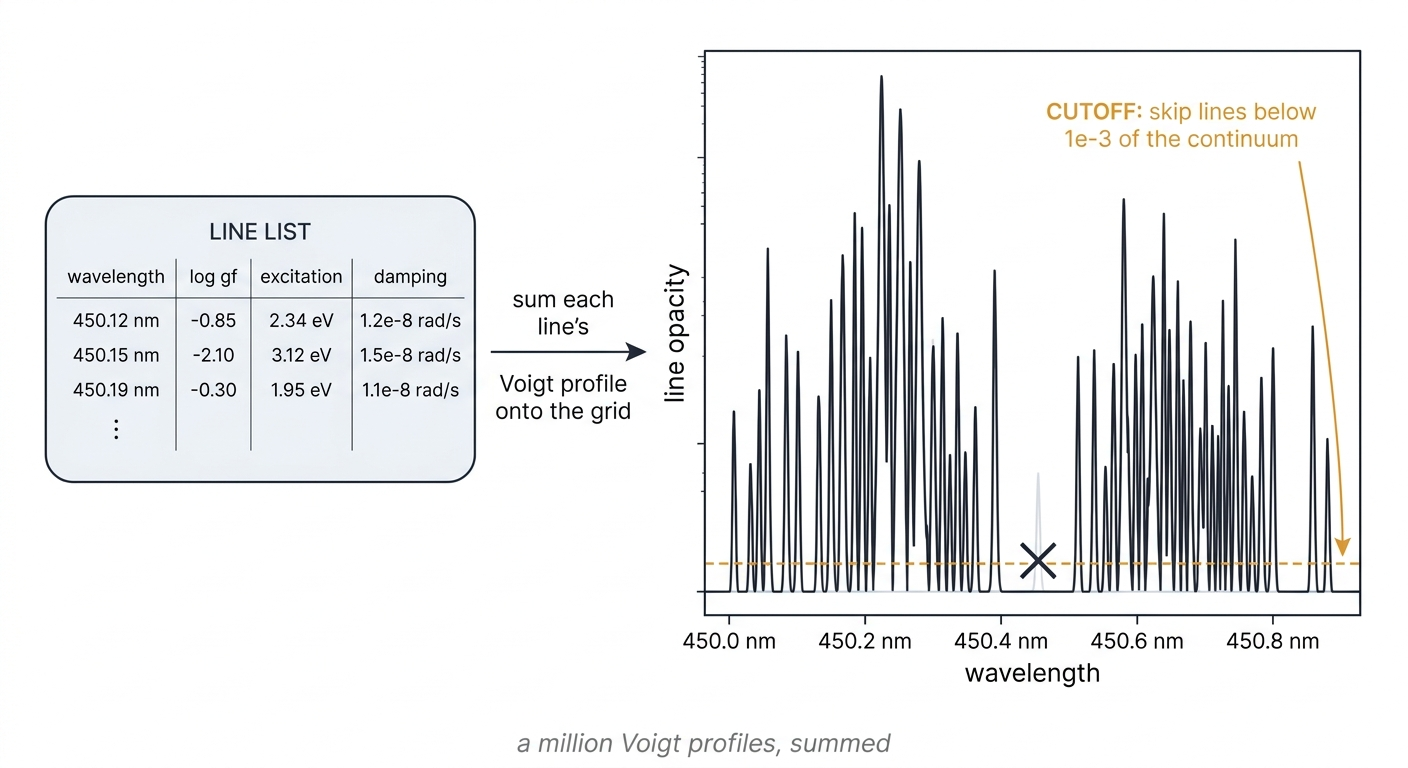
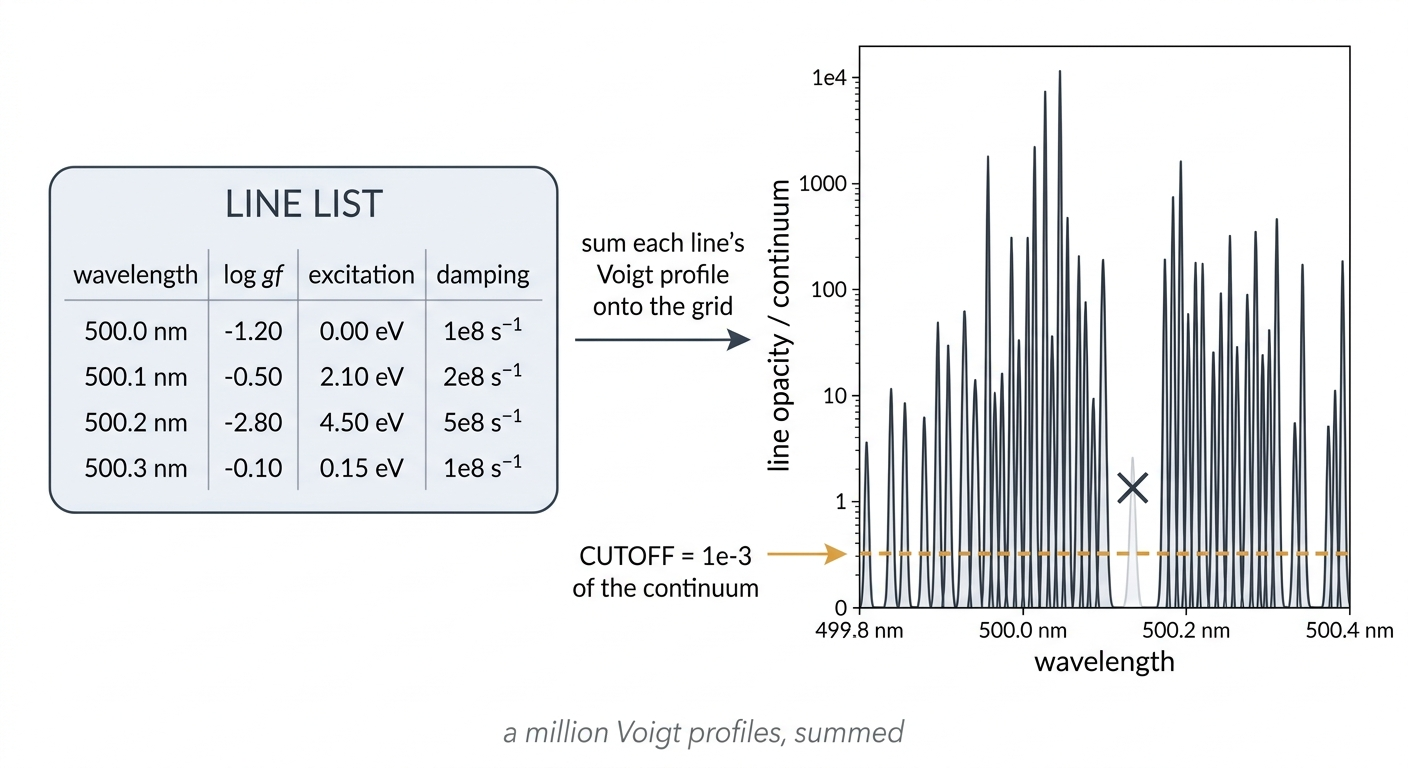
Polish: L8 deep-core gap attributed to METHOD/grid not scattering (consistent w/ L7 + the alpha-discussion); regenerate s5_linelist (relative y-axis, cutoff) + s7_josh (B_nu as source, not opacity)
L8 benchmark 2.5e-12 / B_nu 2.62e-15 preserved.

Changed region(s): [[0.0312, 0.0312, 1.0, 0.9062], [0.3438, 0.9375, 0.6562, 1.0], [0.375, 0.2188, 0.4062, 0.25]]

diff --git a/content/Lecture8.html b/content/Lecture8.html
@@ -3,13 +3,14 @@
 <li>Take the <strong>moments</strong> of the transfer equation and close them with the <strong>Eddington approximation</strong>, turning radiative transfer into a pair of moment equations for the mean intensity <span class="katex"><span class="katex-mathml"><math xmlns="http://www.w3.org/1998/Math/MathML"><semantics><mrow><mi>J</mi></mrow><annotation encoding="application/x-tex">J</annotation></semantics></math></span><span class="katex-html" aria-hidden="true"><span class="base"><span class="strut" style="height:0.6833em;"></span><span class="mord mathnormal" style="margin-right:0.09618em;">J</span></span></span></span> and the flux <span class="katex"><span class="katex-mathml"><math xmlns="http://www.w3.org/1998/Math/MathML"><semantics><mrow><mi>H</mi></mrow><annotation encoding="application/x-tex">H</annotation></semantics></math></span><span class="katex-html" aria-hidden="true"><span class="base"><span class="strut" style="height:0.6833em;"></span><span class="mord mathnormal" style="margin-right:0.08125em;">H</span></span></span></span>.</li>
 <li>Read the production code&#39;s three precomputed tables — a fixed <strong>optical-depth grid</strong>, a discrete <strong>lambda-like operator</strong> <code>COEFJ</code>, and surface-flux weights <code>CH</code> — and say what each one does.</li>
 <li>Build the optical-depth scale with a <strong>parabolic integrator</strong>, map the source onto the fixed grid with <strong>parabolic interpolation</strong>, and solve the <strong>scattering source function</strong> by iteration.</li>
-<li>Assemble the emergent flux and reproduce the reference solar spectrum to <strong>machine precision</strong> — meaning agreement with the production JOSH code path and its tabulated operators and arithmetic, not an assertion that the moment approximation is exact radiative transfer — closing the gap the prescribed-thermal-source formal solution of Lecture 7 left against the production engine.</li>
+<li>Assemble the emergent flux and reproduce the reference solar spectrum to <strong>machine precision</strong> — meaning agreement with the production JOSH code path and its tabulated operators and arithmetic, not an assertion that the moment approximation is exact radiative transfer — closing the deep-core gap the formal solution of Lecture 7 left against the production engine, which in this window is a <strong>method</strong> difference (the fixed grid, parabolic quadrature, tabulated operators, and single-precision arithmetic), not missing scattering.</li>
 </ul>
 </div><div class="prose"><p><em>Written in collaboration with <strong>Claude Opus 4.8</strong>, under the author&#39;s supervision. Schematics generated with <strong>Gemini 3 Pro</strong> (Nano Banana).</em></p>
 <p><em>Every result in this book is checked against reference values computed with <a href="https://arxiv.org/abs/2603.11693"><strong>pykurucz</strong></a> — a pure-Python implementation of Kurucz&#39;s ATLAS12 and SYNTHE — shipped beside the lectures as small data files, so the notebooks need only NumPy to run.</em></p>
 <hr>
 <h2>Introduction</h2>
-<p>Lecture 7 solved radiative transfer with the <strong>formal solution</strong> under one approximation. The formal solution is exact for any specified source; the approximation was the <em>source</em> it was handed — the prescribed thermal value <span class="katex"><span class="katex-mathml"><math xmlns="http://www.w3.org/1998/Math/MathML"><semantics><mrow><msub><mi>S</mi><mi>ν</mi></msub><mo>=</mo><msub><mi>B</mi><mi>ν</mi></msub></mrow><annotation encoding="application/x-tex">S_\nu = B_\nu</annotation></semantics></math></span><span class="katex-html" aria-hidden="true"><span class="base"><span class="strut" style="height:0.8333em;vertical-align:-0.15em;"></span><span class="mord"><span class="mord mathnormal" style="margin-right:0.05764em;">S</span><span class="msupsub"><span class="vlist-t vlist-t2"><span class="vlist-r"><span class="vlist" style="height:0.1514em;"><span style="top:-2.55em;margin-left:-0.0576em;margin-right:0.05em;"><span class="pstrut" style="height:2.7em;"></span><span class="sizing reset-size6 size3 mtight"><span class="mord mathnormal mtight" style="margin-right:0.06366em;">ν</span></span></span></span><span class="vlist-s"></span></span><span class="vlist-r"><span class="vlist" style="height:0.15em;"><span></span></span></span></span></span></span><span class="mspace" style="margin-right:0.2778em;"></span><span class="mrel">=</span><span class="mspace" style="margin-right:0.2778em;"></span></span><span class="base"><span class="strut" style="height:0.8333em;vertical-align:-0.15em;"></span><span class="mord"><span class="mord mathnormal" style="margin-right:0.05017em;">B</span><span class="msupsub"><span class="vlist-t vlist-t2"><span class="vlist-r"><span class="vlist" style="height:0.1514em;"><span style="top:-2.55em;margin-left:-0.0502em;margin-right:0.05em;"><span class="pstrut" style="height:2.7em;"></span><span class="sizing reset-size6 size3 mtight"><span class="mord mathnormal mtight" style="margin-right:0.06366em;">ν</span></span></span></span><span class="vlist-s"></span></span><span class="vlist-r"><span class="vlist" style="height:0.15em;"><span></span></span></span></span></span></span></span></span></span>, with no scattering coupling. That choice is exact wherever true absorption dominates, and it reproduced the solar spectrum to a part in a thousand, loosening to about ten percent only in the deepest cores. There, <strong>scattering</strong> is no longer negligible: the source is pulled away from <span class="katex"><span class="katex-mathml"><math xmlns="http://www.w3.org/1998/Math/MathML"><semantics><mrow><msub><mi>B</mi><mi>ν</mi></msub></mrow><annotation encoding="application/x-tex">B_\nu</annotation></semantics></math></span><span class="katex-html" aria-hidden="true"><span class="base"><span class="strut" style="height:0.8333em;vertical-align:-0.15em;"></span><span class="mord"><span class="mord mathnormal" style="margin-right:0.05017em;">B</span><span class="msupsub"><span class="vlist-t vlist-t2"><span class="vlist-r"><span class="vlist" style="height:0.1514em;"><span style="top:-2.55em;margin-left:-0.0502em;margin-right:0.05em;"><span class="pstrut" style="height:2.7em;"></span><span class="sizing reset-size6 size3 mtight"><span class="mord mathnormal mtight" style="margin-right:0.06366em;">ν</span></span></span></span><span class="vlist-s"></span></span><span class="vlist-r"><span class="vlist" style="height:0.15em;"><span></span></span></span></span></span></span></span></span></span> toward the scattered radiation field, and a prescribed thermal source cannot follow it. Lecture 7 already wrote down the form this takes — the source becomes a mix of the thermal Planck term and the scattered mean intensity:</p>
+<p>Lecture 7 solved radiative transfer with the <strong>formal solution</strong>, which is exact for any specified source. It reproduced the solar spectrum to a part in a thousand, loosening to about ten percent only in the deepest cores — and Lecture 7 pinned down what that residual is. It is not missing scattering: in this LTE solar window the deep line cores are nearly <strong>pure absorption</strong>, the local scattering fraction falling to <span class="katex"><span class="katex-mathml"><math xmlns="http://www.w3.org/1998/Math/MathML"><semantics><mrow><mo>∼</mo><mn>1</mn><msup><mn>0</mn><mrow><mo>−</mo><mn>4</mn></mrow></msup></mrow><annotation encoding="application/x-tex">\sim10^{-4}</annotation></semantics></math></span><span class="katex-html" aria-hidden="true"><span class="base"><span class="strut" style="height:0.3669em;"></span><span class="mrel">∼</span><span class="mspace" style="margin-right:0.2778em;"></span></span><span class="base"><span class="strut" style="height:0.8141em;"></span><span class="mord">1</span><span class="mord"><span class="mord">0</span><span class="msupsub"><span class="vlist-t"><span class="vlist-r"><span class="vlist" style="height:0.8141em;"><span style="top:-3.063em;margin-right:0.05em;"><span class="pstrut" style="height:2.7em;"></span><span class="sizing reset-size6 size3 mtight"><span class="mord mtight"><span class="mord mtight">−</span><span class="mord mtight">4</span></span></span></span></span></span></span></span></span></span></span></span> there, so the prescribed thermal source <span class="katex"><span class="katex-mathml"><math xmlns="http://www.w3.org/1998/Math/MathML"><semantics><mrow><msub><mi>S</mi><mi>ν</mi></msub><mo>=</mo><msub><mi>B</mi><mi>ν</mi></msub></mrow><annotation encoding="application/x-tex">S_\nu = B_\nu</annotation></semantics></math></span><span class="katex-html" aria-hidden="true"><span class="base"><span class="strut" style="height:0.8333em;vertical-align:-0.15em;"></span><span class="mord"><span class="mord mathnormal" style="margin-right:0.05764em;">S</span><span class="msupsub"><span class="vlist-t vlist-t2"><span class="vlist-r"><span class="vlist" style="height:0.1514em;"><span style="top:-2.55em;margin-left:-0.0576em;margin-right:0.05em;"><span class="pstrut" style="height:2.7em;"></span><span class="sizing reset-size6 size3 mtight"><span class="mord mathnormal mtight" style="margin-right:0.06366em;">ν</span></span></span></span><span class="vlist-s"></span></span><span class="vlist-r"><span class="vlist" style="height:0.15em;"><span></span></span></span></span></span></span><span class="mspace" style="margin-right:0.2778em;"></span><span class="mrel">=</span><span class="mspace" style="margin-right:0.2778em;"></span></span><span class="base"><span class="strut" style="height:0.8333em;vertical-align:-0.15em;"></span><span class="mord"><span class="mord mathnormal" style="margin-right:0.05017em;">B</span><span class="msupsub"><span class="vlist-t vlist-t2"><span class="vlist-r"><span class="vlist" style="height:0.1514em;"><span style="top:-2.55em;margin-left:-0.0502em;margin-right:0.05em;"><span class="pstrut" style="height:2.7em;"></span><span class="sizing reset-size6 size3 mtight"><span class="mord mathnormal mtight" style="margin-right:0.06366em;">ν</span></span></span></span><span class="vlist-s"></span></span><span class="vlist-r"><span class="vlist" style="height:0.15em;"><span></span></span></span></span></span></span></span></span></span> is an excellent approximation in the cores. The gap is instead a <strong>method</strong> difference. Lecture 7&#39;s formal solution integrates the steep near-surface source by the trapezoidal rule on the atmosphere&#39;s <em>native</em> depth grid, while the production engine maps the source onto a <em>fixed</em> optical-depth grid, integrates it with a parabolic moment scheme through tabulated operators, and works in single precision. Where the source is nearly linear in <span class="katex"><span class="katex-mathml"><math xmlns="http://www.w3.org/1998/Math/MathML"><semantics><mrow><mi>τ</mi></mrow><annotation encoding="application/x-tex">\tau</annotation></semantics></math></span><span class="katex-html" aria-hidden="true"><span class="base"><span class="strut" style="height:0.4306em;"></span><span class="mord mathnormal" style="margin-right:0.1132em;">τ</span></span></span></span> — almost everywhere — the two paths agree to a part in a thousand; only in the steep strong-line cores does the grid, the quadrature, and the arithmetic account for the ten-percent gap. This lecture rebuilds that production path so the gap closes.</p>
+<p>Scattering still belongs in a production solver, but it earns its place elsewhere in this window. Where it matters is the <strong>continuum surface</strong>: in the thin, cool top layers the continuum absorption nearly vanishes while Rayleigh and Thomson scattering do not, so there the scattering fraction climbs to <span class="katex"><span class="katex-mathml"><math xmlns="http://www.w3.org/1998/Math/MathML"><semantics><mrow><msub><mi>α</mi><mi>ν</mi></msub><mo>→</mo><mn>1</mn></mrow><annotation encoding="application/x-tex">\alpha_\nu \to 1</annotation></semantics></math></span><span class="katex-html" aria-hidden="true"><span class="base"><span class="strut" style="height:0.5806em;vertical-align:-0.15em;"></span><span class="mord"><span class="mord mathnormal" style="margin-right:0.0037em;">α</span><span class="msupsub"><span class="vlist-t vlist-t2"><span class="vlist-r"><span class="vlist" style="height:0.1514em;"><span style="top:-2.55em;margin-left:-0.0037em;margin-right:0.05em;"><span class="pstrut" style="height:2.7em;"></span><span class="sizing reset-size6 size3 mtight"><span class="mord mathnormal mtight" style="margin-right:0.06366em;">ν</span></span></span></span><span class="vlist-s"></span></span><span class="vlist-r"><span class="vlist" style="height:0.15em;"><span></span></span></span></span></span></span><span class="mspace" style="margin-right:0.2778em;"></span><span class="mrel">→</span><span class="mspace" style="margin-right:0.2778em;"></span></span><span class="base"><span class="strut" style="height:0.6444em;"></span><span class="mord">1</span></span></span></span> and the source is genuinely pulled away from <span class="katex"><span class="katex-mathml"><math xmlns="http://www.w3.org/1998/Math/MathML"><semantics><mrow><msub><mi>B</mi><mi>ν</mi></msub></mrow><annotation encoding="application/x-tex">B_\nu</annotation></semantics></math></span><span class="katex-html" aria-hidden="true"><span class="base"><span class="strut" style="height:0.8333em;vertical-align:-0.15em;"></span><span class="mord"><span class="mord mathnormal" style="margin-right:0.05017em;">B</span><span class="msupsub"><span class="vlist-t vlist-t2"><span class="vlist-r"><span class="vlist" style="height:0.1514em;"><span style="top:-2.55em;margin-left:-0.0502em;margin-right:0.05em;"><span class="pstrut" style="height:2.7em;"></span><span class="sizing reset-size6 size3 mtight"><span class="mord mathnormal mtight" style="margin-right:0.06366em;">ν</span></span></span></span><span class="vlist-s"></span></span><span class="vlist-r"><span class="vlist" style="height:0.15em;"><span></span></span></span></span></span></span></span></span></span> toward the scattered radiation field — exactly the regime a prescribed thermal source cannot follow. The general source function that covers both regimes is a mix of the thermal Planck term and the scattered mean intensity:</p>
 <span class="katex-display"><span class="katex"><span class="katex-mathml"><math xmlns="http://www.w3.org/1998/Math/MathML" display="block"><semantics><mrow><msub><mi>S</mi><mi>ν</mi></msub><mo>=</mo><mfrac><mrow><msubsup><mi>κ</mi><mi>ν</mi><mrow><mi mathvariant="normal">a</mi><mi mathvariant="normal">b</mi><mi mathvariant="normal">s</mi></mrow></msubsup><mtext> </mtext><msub><mi>B</mi><mi>ν</mi></msub><mo>+</mo><msubsup><mi>κ</mi><mi>ν</mi><mrow><mi mathvariant="normal">s</mi><mi mathvariant="normal">c</mi><mi mathvariant="normal">a</mi><mi mathvariant="normal">t</mi></mrow></msubsup><mtext> </mtext><msub><mi>J</mi><mi>ν</mi></msub></mrow><mrow><msubsup><mi>κ</mi><mi>ν</mi><mrow><mi mathvariant="normal">a</mi><mi mathvariant="normal">b</mi><mi mathvariant="normal">s</mi></mrow></msubsup><mo>+</mo><msubsup><mi>κ</mi><mi>ν</mi><mrow><mi mathvariant="normal">s</mi><mi mathvariant="normal">c</mi><mi mathvariant="normal">a</mi><mi mathvariant="normal">t</mi></mrow></msubsup></mrow></mfrac><mo>=</mo><mo stretchy="false">(</mo><mn>1</mn><mo>−</mo><msub><mi>α</mi><mi>ν</mi></msub><mo stretchy="false">)</mo><mtext> </mtext><msub><mi>B</mi><mi>ν</mi></msub><mo>+</mo><msub><mi>α</mi><mi>ν</mi></msub><mtext> </mtext><msub><mi>J</mi><mi>ν</mi></msub><mo separator="true">,</mo><mspace width="2em"/><msub><mi>α</mi><mi>ν</mi></msub><mo>≡</mo><mfrac><msubsup><mi>κ</mi><mi>ν</mi><mrow><mi mathvariant="normal">s</mi><mi mathvariant="normal">c</mi><mi mathvariant="normal">a</mi><mi mathvariant="normal">t</mi></mrow></msubsup><mrow><msubsup><mi>κ</mi><mi>ν</mi><mrow><mi mathvariant="normal">a</mi><mi mathvariant="normal">b</mi><mi mathvariant="normal">s</mi></mrow></msubsup><mo>+</mo><msubsup><mi>κ</mi><mi>ν</mi><mrow><mi mathvariant="normal">s</mi><mi mathvariant="normal">c</mi><mi mathvariant="normal">a</mi><mi mathvariant="normal">t</mi></mrow></msubsup></mrow></mfrac><mi mathvariant="normal">.</mi></mrow><annotation encoding="application/x-tex">S_\nu = \frac{\kappa^{\rm abs}_\nu\,B_\nu + \kappa^{\rm scat}_\nu\,J_\nu}{\kappa^{\rm abs}_\nu + \kappa^{\rm scat}_\nu}
         = (1-\alpha_\nu)\,B_\nu + \alpha_\nu\,J_\nu,
 \qquad
@@ -808,10 +809,10 @@ fig.tight_layout(); plt.show()</code></pre>
 <li>The production solver ships <span class="katex"><span class="katex-mathml"><math xmlns="http://www.w3.org/1998/Math/MathML"><semantics><mrow><mi mathvariant="normal">Λ</mi></mrow><annotation encoding="application/x-tex">\Lambda</annotation></semantics></math></span><span class="katex-html" aria-hidden="true"><span class="base"><span class="strut" style="height:0.6833em;"></span><span class="mord">Λ</span></span></span></span> as a matrix <code>COEFJ</code> on a <strong>fixed 51-point optical-depth grid</strong>, with flux weights <code>CH</code> for the surface flux <span class="katex"><span class="katex-mathml"><math xmlns="http://www.w3.org/1998/Math/MathML"><semantics><mrow><mi>H</mi><mo stretchy="false">(</mo><mn>0</mn><mo stretchy="false">)</mo><mo>=</mo><msub><mo>∑</mo><mi>k</mi></msub><msub><mtext mathvariant="monospace">CH</mtext><mi>k</mi></msub><msub><mi>S</mi><mi>k</mi></msub></mrow><annotation encoding="application/x-tex">H(0) = \sum_k \texttt{CH}_k S_k</annotation></semantics></math></span><span class="katex-html" aria-hidden="true"><span class="base"><span class="strut" style="height:1em;vertical-align:-0.25em;"></span><span class="mord mathnormal" style="margin-right:0.08125em;">H</span><span class="mopen">(</span><span class="mord">0</span><span class="mclose">)</span><span class="mspace" style="margin-right:0.2778em;"></span><span class="mrel">=</span><span class="mspace" style="margin-right:0.2778em;"></span></span><span class="base"><span class="strut" style="height:1.0497em;vertical-align:-0.2997em;"></span><span class="mop"><span class="mop op-symbol small-op" style="position:relative;top:0em;">∑</span><span class="msupsub"><span class="vlist-t vlist-t2"><span class="vlist-r"><span class="vlist" style="height:0.1864em;"><span style="top:-2.4003em;margin-left:0em;margin-right:0.05em;"><span class="pstrut" style="height:2.7em;"></span><span class="sizing reset-size6 size3 mtight"><span class="mord mathnormal mtight" style="margin-right:0.03148em;">k</span></span></span></span><span class="vlist-s"></span></span><span class="vlist-r"><span class="vlist" style="height:0.2997em;"><span></span></span></span></span></span></span><span class="mspace" style="margin-right:0.1667em;"></span><span class="mord"><span class="mord text"><span class="mord texttt">CH</span></span><span class="msupsub"><span class="vlist-t vlist-t2"><span class="vlist-r"><span class="vlist" style="height:0.3361em;"><span style="top:-2.55em;margin-right:0.05em;"><span class="pstrut" style="height:2.7em;"></span><span class="sizing reset-size6 size3 mtight"><span class="mord mathnormal mtight" style="margin-right:0.03148em;">k</span></span></span></span><span class="vlist-s"></span></span><span class="vlist-r"><span class="vlist" style="height:0.15em;"><span></span></span></span></span></span></span><span class="mord"><span class="mord mathnormal" style="margin-right:0.05764em;">S</span><span class="msupsub"><span class="vlist-t vlist-t2"><span class="vlist-r"><span class="vlist" style="height:0.3361em;"><span style="top:-2.55em;margin-left:-0.0576em;margin-right:0.05em;"><span class="pstrut" style="height:2.7em;"></span><span class="sizing reset-size6 size3 mtight"><span class="mord mathnormal mtight" style="margin-right:0.03148em;">k</span></span></span></span><span class="vlist-s"></span></span><span class="vlist-r"><span class="vlist" style="height:0.15em;"><span></span></span></span></span></span></span></span></span></span>.</li>
 <li>The scattering source obeys <span class="katex"><span class="katex-mathml"><math xmlns="http://www.w3.org/1998/Math/MathML"><semantics><mrow><mi>S</mi><mo>=</mo><mo stretchy="false">(</mo><mn>1</mn><mo>−</mo><mi>α</mi><mo stretchy="false">)</mo><mover accent="true"><mi>S</mi><mo>ˉ</mo></mover><mo>+</mo><mi>α</mi><mtext> </mtext><mo stretchy="false">(</mo><mtext mathvariant="monospace">COEFJ</mtext><mo>⋅</mo><mi>S</mi><mo stretchy="false">)</mo></mrow><annotation encoding="application/x-tex">S = (1-\alpha)\bar S + \alpha\,(\texttt{COEFJ}\cdot S)</annotation></semantics></math></span><span class="katex-html" aria-hidden="true"><span class="base"><span class="strut" style="height:0.6833em;"></span><span class="mord mathnormal" style="margin-right:0.05764em;">S</span><span class="mspace" style="margin-right:0.2778em;"></span><span class="mrel">=</span><span class="mspace" style="margin-right:0.2778em;"></span></span><span class="base"><span class="strut" style="height:1em;vertical-align:-0.25em;"></span><span class="mopen">(</span><span class="mord">1</span><span class="mspace" style="margin-right:0.2222em;"></span><span class="mbin">−</span><span class="mspace" style="margin-right:0.2222em;"></span></span><span class="base"><span class="strut" style="height:1.0701em;vertical-align:-0.25em;"></span><span class="mord mathnormal" style="margin-right:0.0037em;">α</span><span class="mclose">)</span><span class="mord accent"><span class="vlist-t"><span class="vlist-r"><span class="vlist" style="height:0.8201em;"><span style="top:-3em;"><span class="pstrut" style="height:3em;"></span><span class="mord mathnormal" style="margin-right:0.05764em;">S</span></span><span style="top:-3.2523em;"><span class="pstrut" style="height:3em;"></span><span class="accent-body" style="left:-0.1667em;"><span class="mord">ˉ</span></span></span></span></span></span></span><span class="mspace" style="margin-right:0.2222em;"></span><span class="mbin">+</span><span class="mspace" style="margin-right:0.2222em;"></span></span><span class="base"><span class="strut" style="height:1em;vertical-align:-0.25em;"></span><span class="mord mathnormal" style="margin-right:0.0037em;">α</span><span class="mspace" style="margin-right:0.1667em;"></span><span class="mopen">(</span><span class="mord text"><span class="mord texttt">COEFJ</span></span><span class="mspace" style="margin-right:0.2222em;"></span><span class="mbin">⋅</span><span class="mspace" style="margin-right:0.2222em;"></span></span><span class="base"><span class="strut" style="height:1em;vertical-align:-0.25em;"></span><span class="mord mathnormal" style="margin-right:0.05764em;">S</span><span class="mclose">)</span></span></span></span>, solved by a backward Gauss–Seidel sweep in <strong>single precision</strong> to a <span class="katex"><span class="katex-mathml"><math xmlns="http://www.w3.org/1998/Math/MathML"><semantics><mrow><mn>1</mn><msup><mn>0</mn><mrow><mo>−</mo><mn>5</mn></mrow></msup></mrow><annotation encoding="application/x-tex">10^{-5}</annotation></semantics></math></span><span class="katex-html" aria-hidden="true"><span class="base"><span class="strut" style="height:0.8141em;"></span><span class="mord">1</span><span class="mord"><span class="mord">0</span><span class="msupsub"><span class="vlist-t"><span class="vlist-r"><span class="vlist" style="height:0.8141em;"><span style="top:-3.063em;margin-right:0.05em;"><span class="pstrut" style="height:2.7em;"></span><span class="sizing reset-size6 size3 mtight"><span class="mord mtight"><span class="mord mtight">−</span><span class="mord mtight">5</span></span></span></span></span></span></span></span></span></span></span></span> tolerance.</li>
 <li>The pipeline per wavelength is: <strong>optical depth</strong> (<code>parcoe</code>/<code>integ</code>) → <strong>map onto the grid</strong> (<code>map1</code>) → <strong>iterate the source</strong> → <strong>weighted flux</strong>.</li>
-<li>The rebuilt solver reproduces the reference spectrum to a <strong>median of <span class="katex"><span class="katex-mathml"><math xmlns="http://www.w3.org/1998/Math/MathML"><semantics><mrow><mo>∼</mo><mn>1</mn><msup><mn>0</mn><mrow><mo>−</mo><mn>12</mn></mrow></msup></mrow><annotation encoding="application/x-tex">\sim10^{-12}</annotation></semantics></math></span><span class="katex-html" aria-hidden="true"><span class="base"><span class="strut" style="height:0.3669em;"></span><span class="mrel">∼</span><span class="mspace" style="margin-right:0.2778em;"></span></span><span class="base"><span class="strut" style="height:0.8141em;"></span><span class="mord">1</span><span class="mord"><span class="mord">0</span><span class="msupsub"><span class="vlist-t"><span class="vlist-r"><span class="vlist" style="height:0.8141em;"><span style="top:-3.063em;margin-right:0.05em;"><span class="pstrut" style="height:2.7em;"></span><span class="sizing reset-size6 size3 mtight"><span class="mord mtight"><span class="mord mtight">−</span><span class="mord mtight">12</span></span></span></span></span></span></span></span></span></span></span></span></strong>, closing the gap the Lecture 7 calculation left against the production engine.</li>
+<li>The rebuilt solver reproduces the reference spectrum to a <strong>median of <span class="katex"><span class="katex-mathml"><math xmlns="http://www.w3.org/1998/Math/MathML"><semantics><mrow><mo>∼</mo><mn>1</mn><msup><mn>0</mn><mrow><mo>−</mo><mn>12</mn></mrow></msup></mrow><annotation encoding="application/x-tex">\sim10^{-12}</annotation></semantics></math></span><span class="katex-html" aria-hidden="true"><span class="base"><span class="strut" style="height:0.3669em;"></span><span class="mrel">∼</span><span class="mspace" style="margin-right:0.2778em;"></span></span><span class="base"><span class="strut" style="height:0.8141em;"></span><span class="mord">1</span><span class="mord"><span class="mord">0</span><span class="msupsub"><span class="vlist-t"><span class="vlist-r"><span class="vlist" style="height:0.8141em;"><span style="top:-3.063em;margin-right:0.05em;"><span class="pstrut" style="height:2.7em;"></span><span class="sizing reset-size6 size3 mtight"><span class="mord mtight"><span class="mord mtight">−</span><span class="mord mtight">12</span></span></span></span></span></span></span></span></span></span></span></span></strong>, closing the deep-core gap the Lecture 7 calculation left — a <strong>grid/quadrature/operator/arithmetic</strong> difference, not missing scattering; in this window scattering matters only at the continuum surface, where <span class="katex"><span class="katex-mathml"><math xmlns="http://www.w3.org/1998/Math/MathML"><semantics><mrow><mi>α</mi><mo>→</mo><mn>1</mn></mrow><annotation encoding="application/x-tex">\alpha\to 1</annotation></semantics></math></span><span class="katex-html" aria-hidden="true"><span class="base"><span class="strut" style="height:0.4306em;"></span><span class="mord mathnormal" style="margin-right:0.0037em;">α</span><span class="mspace" style="margin-right:0.2778em;"></span><span class="mrel">→</span><span class="mspace" style="margin-right:0.2778em;"></span></span><span class="base"><span class="strut" style="height:0.6444em;"></span><span class="mord">1</span></span></span></span>.</li>
 </ul>
 <h2>Practice exercises</h2>
-<p><strong>1. The closure in action.</strong> Set <span class="katex"><span class="katex-mathml"><math xmlns="http://www.w3.org/1998/Math/MathML"><semantics><mrow><mi>α</mi><mo>=</mo><mn>0</mn></mrow><annotation encoding="application/x-tex">\alpha = 0</annotation></semantics></math></span><span class="katex-html" aria-hidden="true"><span class="base"><span class="strut" style="height:0.4306em;"></span><span class="mord mathnormal" style="margin-right:0.0037em;">α</span><span class="mspace" style="margin-right:0.2778em;"></span><span class="mrel">=</span><span class="mspace" style="margin-right:0.2778em;"></span></span><span class="base"><span class="strut" style="height:0.6444em;"></span><span class="mord">0</span></span></span></span> everywhere in <code>solve_josh</code> (so the source never leaves <span class="katex"><span class="katex-mathml"><math xmlns="http://www.w3.org/1998/Math/MathML"><semantics><mrow><mover accent="true"><mi>S</mi><mo>ˉ</mo></mover></mrow><annotation encoding="application/x-tex">\bar S</annotation></semantics></math></span><span class="katex-html" aria-hidden="true"><span class="base"><span class="strut" style="height:0.8201em;"></span><span class="mord accent"><span class="vlist-t"><span class="vlist-r"><span class="vlist" style="height:0.8201em;"><span style="top:-3em;"><span class="pstrut" style="height:3em;"></span><span class="mord mathnormal" style="margin-right:0.05764em;">S</span></span><span style="top:-3.2523em;"><span class="pstrut" style="height:3em;"></span><span class="accent-body" style="left:-0.1667em;"><span class="mord">ˉ</span></span></span></span></span></span></span></span></span></span>) and compare the result with the Lecture 7 pure-absorption formal solution. State the tolerance you find, and identify which of the remaining differences come from the grid, the flux weighting, and the interpolation rather than from the physics. Then raise <span class="katex"><span class="katex-mathml"><math xmlns="http://www.w3.org/1998/Math/MathML"><semantics><mrow><mi>α</mi></mrow><annotation encoding="application/x-tex">\alpha</annotation></semantics></math></span><span class="katex-html" aria-hidden="true"><span class="base"><span class="strut" style="height:0.4306em;"></span><span class="mord mathnormal" style="margin-right:0.0037em;">α</span></span></span></span> by hand in a single core and watch the central depth grow — how much scattering is needed to darken the core by ten percent?</p>
+<p><strong>1. The closure in action.</strong> Set <span class="katex"><span class="katex-mathml"><math xmlns="http://www.w3.org/1998/Math/MathML"><semantics><mrow><mi>α</mi><mo>=</mo><mn>0</mn></mrow><annotation encoding="application/x-tex">\alpha = 0</annotation></semantics></math></span><span class="katex-html" aria-hidden="true"><span class="base"><span class="strut" style="height:0.4306em;"></span><span class="mord mathnormal" style="margin-right:0.0037em;">α</span><span class="mspace" style="margin-right:0.2778em;"></span><span class="mrel">=</span><span class="mspace" style="margin-right:0.2778em;"></span></span><span class="base"><span class="strut" style="height:0.6444em;"></span><span class="mord">0</span></span></span></span> everywhere in <code>solve_josh</code> (so the source never leaves <span class="katex"><span class="katex-mathml"><math xmlns="http://www.w3.org/1998/Math/MathML"><semantics><mrow><mover accent="true"><mi>S</mi><mo>ˉ</mo></mover></mrow><annotation encoding="application/x-tex">\bar S</annotation></semantics></math></span><span class="katex-html" aria-hidden="true"><span class="base"><span class="strut" style="height:0.8201em;"></span><span class="mord accent"><span class="vlist-t"><span class="vlist-r"><span class="vlist" style="height:0.8201em;"><span style="top:-3em;"><span class="pstrut" style="height:3em;"></span><span class="mord mathnormal" style="margin-right:0.05764em;">S</span></span><span style="top:-3.2523em;"><span class="pstrut" style="height:3em;"></span><span class="accent-body" style="left:-0.1667em;"><span class="mord">ˉ</span></span></span></span></span></span></span></span></span></span>) and compare the result with the Lecture 7 pure-absorption formal solution. Confirm that the deep cores still differ at the ten-percent level even with all scattering off — proof that the real Lecture 7 gap is a method difference — and identify which of the remaining differences come from the grid, the flux weighting, and the interpolation rather than from the physics. <em>Separately</em>, as a hypothetical probe, raise <span class="katex"><span class="katex-mathml"><math xmlns="http://www.w3.org/1998/Math/MathML"><semantics><mrow><mi>α</mi></mrow><annotation encoding="application/x-tex">\alpha</annotation></semantics></math></span><span class="katex-html" aria-hidden="true"><span class="base"><span class="strut" style="height:0.4306em;"></span><span class="mord mathnormal" style="margin-right:0.0037em;">α</span></span></span></span> by hand in a single core (these cores are pure absorption in reality, so this is a &quot;what if this core scattered&quot; experiment, not the explanation of the real gap) and watch the central depth grow — how much scattering <em>would</em> it take to darken the core by ten percent?</p>
 <p><strong>2. The operator&#39;s reach.</strong> Plot a few rows of <code>COEFJ</code> (say <span class="katex"><span class="katex-mathml"><math xmlns="http://www.w3.org/1998/Math/MathML"><semantics><mrow><mi>k</mi><mo>=</mo><mn>5</mn><mo separator="true">,</mo><mn>25</mn><mo separator="true">,</mo><mn>45</mn></mrow><annotation encoding="application/x-tex">k=5, 25, 45</annotation></semantics></math></span><span class="katex-html" aria-hidden="true"><span class="base"><span class="strut" style="height:0.6944em;"></span><span class="mord mathnormal" style="margin-right:0.03148em;">k</span><span class="mspace" style="margin-right:0.2778em;"></span><span class="mrel">=</span><span class="mspace" style="margin-right:0.2778em;"></span></span><span class="base"><span class="strut" style="height:0.8389em;vertical-align:-0.1944em;"></span><span class="mord">5</span><span class="mpunct">,</span><span class="mspace" style="margin-right:0.1667em;"></span><span class="mord">25</span><span class="mpunct">,</span><span class="mspace" style="margin-right:0.1667em;"></span><span class="mord">45</span></span></span></span>) against grid index. How localised is the mean-intensity response, and how does its width compare with the spacing of the optical-depth grid? Relate this to why a scattering-dominated line core samples a nonlocal range of neighbouring optical depths rather than only the local temperature.</p>
 <p><strong>3. Precision matters.</strong> Change <code>iterate_source</code> to work in <code>float64</code> instead of <code>float32</code> and recompute the spectrum. Where does it differ from the reference, and by how much? Explain why matching the production code requires matching its working precision, not just its algorithm.</p>
 <p><strong>4. Convergence.</strong> Count the iterations to convergence as a function of the maximum scattering fraction <span class="katex"><span class="katex-mathml"><math xmlns="http://www.w3.org/1998/Math/MathML"><semantics><mrow><mi>α</mi></mrow><annotation encoding="application/x-tex">\alpha</annotation></semantics></math></span><span class="katex-html" aria-hidden="true"><span class="base"><span class="strut" style="height:0.4306em;"></span><span class="mord mathnormal" style="margin-right:0.0037em;">α</span></span></span></span> along the column (return the count from <code>iterate_source</code>). Why do scattering-dominated wavelengths take longer, and what does that imply for the cost of a full spectral synthesis?</p>

diff --git a/_pipeline/build_lecture8.py b/_pipeline/build_lecture8.py
@@ -32,11 +32,13 @@ md(r"""# Lecture 8 — The JOSH Solver: Production Radiative Transfer
 - Take the **moments** of the transfer equation and close them with the **Eddington approximation**, turning radiative transfer into a pair of moment equations for the mean intensity $J$ and the flux $H$.
 - Read the production code's three precomputed tables — a fixed **optical-depth grid**, a discrete **lambda-like operator** `COEFJ`, and surface-flux weights `CH` — and say what each one does.
 - Build the optical-depth scale with a **parabolic integrator**, map the source onto the fixed grid with **parabolic interpolation**, and solve the **scattering source function** by iteration.
-- Assemble the emergent flux and reproduce the reference solar spectrum to **machine precision** — meaning agreement with the production JOSH code path and its tabulated operators and arithmetic, not an assertion that the moment approximation is exact radiative transfer — closing the gap the prescribed-thermal-source formal solution of Lecture 7 left against the production engine.""")
+- Assemble the emergent flux and reproduce the reference solar spectrum to **machine precision** — meaning agreement with the production JOSH code path and its tabulated operators and arithmetic, not an assertion that the moment approximation is exact radiative transfer — closing the deep-core gap the formal solution of Lecture 7 left against the production engine, which in this window is a **method** difference (the fixed grid, parabolic quadrature, tabulated operators, and single-precision arithmetic), not missing scattering.""")
 
 md(r"""## Introduction
 
-Lecture 7 solved radiative transfer with the **formal solution** under one approximation. The formal solution is exact for any specified source; the approximation was the *source* it was handed — the prescribed thermal value $S_\nu = B_\nu$, with no scattering coupling. That choice is exact wherever true absorption dominates, and it reproduced the solar spectrum to a part in a thousand, loosening to about ten percent only in the deepest cores. There, **scattering** is no longer negligible: the source is pulled away from $B_\nu$ toward the scattered radiation field, and a prescribed thermal source cannot follow it. Lecture 7 already wrote down the form this takes — the source becomes a mix of the thermal Planck term and the scattered mean intensity:
+Lecture 7 solved radiative transfer with the **formal solution**, which is exact for any specified source. It reproduced the solar spectrum to a part in a thousand, loosening to about ten percent only in the deepest cores — and Lecture 7 pinned down what that residual is. It is not missing scattering: in this LTE solar window the deep line cores are nearly **pure absorption**, the local scattering fraction falling to $\sim10^{-4}$ there, so the prescribed thermal source $S_\nu = B_\nu$ is an excellent approximation in the cores. The gap is instead a **method** difference. Lecture 7's formal solution integrates the steep near-surface source by the trapezoidal rule on the atmosphere's *native* depth grid, while the production engine maps the source onto a *fixed* optical-depth grid, integrates it with a parabolic moment scheme through tabulated operators, and works in single precision. Where the source is nearly linear in $\tau$ — almost everywhere — the two paths agree to a part in a thousand; only in the steep strong-line cores does the grid, the quadrature, and the arithmetic account for the ten-percent gap. This lecture rebuilds that production path so the gap closes.
+
+Scattering still belongs in a production solver, but it earns its place elsewhere in this window. Where it matters is the **continuum surface**: in the thin, cool top layers the continuum absorption nearly vanishes while Rayleigh and Thomson scattering do not, so there the scattering fraction climbs to $\alpha_\nu \to 1$ and the source is genuinely pulled away from $B_\nu$ toward the scattered radiation field — exactly the regime a prescribed thermal source cannot follow. The general source function that covers both regimes is a mix of the thermal Planck term and the scattered mean intensity:
 
 $$
 S_\nu = \frac{\kappa^{\rm abs}_\nu\,B_\nu + \kappa^{\rm scat}_\nu\,J_\nu}{\kappa^{\rm abs}_\nu + \kappa^{\rm scat}_\nu}
@@ -527,11 +529,11 @@ md(r"""## Summary
 - The production solver ships $\Lambda$ as a matrix `COEFJ` on a **fixed 51-point optical-depth grid**, with flux weights `CH` for the surface flux $H(0) = \sum_k \texttt{CH}_k S_k$.
 - The scattering source obeys $S = (1-\alpha)\bar S + \alpha\,(\texttt{COEFJ}\cdot S)$, solved by a backward Gauss–Seidel sweep in **single precision** to a $10^{-5}$ tolerance.
 - The pipeline per wavelength is: **optical depth** (`parcoe`/`integ`) → **map onto the grid** (`map1`) → **iterate the source** → **weighted flux**.
-- The rebuilt solver reproduces the reference spectrum to a **median of $\sim10^{-12}$**, closing the gap the Lecture 7 calculation left against the production engine.""")
+- The rebuilt solver reproduces the reference spectrum to a **median of $\sim10^{-12}$**, closing the deep-core gap the Lecture 7 calculation left — a **grid/quadrature/operator/arithmetic** difference, not missing scattering; in this window scattering matters only at the continuum surface, where $\alpha\to 1$.""")
 
 md(r"""## Practice exercises
 
-**1. The closure in action.** Set $\alpha = 0$ everywhere in `solve_josh` (so the source never leaves $\bar S$) and compare the result with the Lecture 7 pure-absorption formal solution. State the tolerance you find, and identify which of the remaining differences come from the grid, the flux weighting, and the interpolation rather than from the physics. Then raise $\alpha$ by hand in a single core and watch the central depth grow — how much scattering is needed to darken the core by ten percent?
+**1. The closure in action.** Set $\alpha = 0$ everywhere in `solve_josh` (so the source never leaves $\bar S$) and compare the result with the Lecture 7 pure-absorption formal solution. Confirm that the deep cores still differ at the ten-percent level even with all scattering off — proof that the real Lecture 7 gap is a method difference — and identify which of the remaining differences come from the grid, the flux weighting, and the interpolation rather than from the physics. *Separately*, as a hypothetical probe, raise $\alpha$ by hand in a single core (these cores are pure absorption in reality, so this is a "what if this core scattered" experiment, not the explanation of the real gap) and watch the central depth grow — how much scattering *would* it take to darken the core by ten percent?
 
 **2. The operator's reach.** Plot a few rows of `COEFJ` (say $k=5, 25, 45$) against grid index. How localised is the mean-intensity response, and how does its width compare with the spacing of the optical-depth grid? Relate this to why a scattering-dominated line core samples a nonlocal range of neighbouring optical depths rather than only the local temperature.
 

diff --git a/_pipeline/gen_schematics.py b/_pipeline/gen_schematics.py
@@ -63,10 +63,11 @@ FIGS = {
  "s5_linelist.png":
    "Building total line opacity from a line list. Left: a small table 'LINE LIST' with columns 'wavelength, log gf, "
    "excitation, damping' and a few rows. An arrow 'sum each line's Voigt profile onto the grid'. Right: a plot with "
-   "y-axis 'line opacity' and x-axis 'wavelength', showing many narrow opacity SPIKES pointing UPWARD from a near-zero "
-   "baseline (opacity is LARGE at each line centre — upward peaks, NOT downward dips), of different heights, a 'forest' of "
-   "upward spikes. A dashed horizontal threshold line near the baseline (amber) labeled 'CUTOFF: skip lines below 1e-3 of "
-   "the continuum', with one faint short upward spike below it crossed out. Caption 'a million Voigt profiles, summed'." + S,
+   "y-axis 'line opacity / continuum' and x-axis 'wavelength', showing many narrow opacity SPIKES pointing UPWARD from a "
+   "near-zero baseline (opacity is LARGE at each line centre — upward peaks, NOT downward dips), of different heights, a "
+   "'forest' of upward spikes. A dashed horizontal threshold line near the baseline (amber) labeled 'CUTOFF = 1e-3 of "
+   "the continuum'. One faint short upward spike whose PEAK STAYS BELOW the dashed cutoff line is crossed out (it is "
+   "skipped because its peak falls below the threshold). Caption 'a million Voigt profiles, summed'." + S,
  "s5b_stark.png":
    "Stark broadening of hydrogen lines by the plasma microfield. CENTER: a single hydrogen atom (one proton '+' with "
    "one electron on a circular orbit) sitting among nearby charged particles — several small '+' ions and '-' electrons "
@@ -87,7 +88,8 @@ FIGS = {
    "dip aligned to the line sightline. Caption 'a line lets us see a higher, cooler layer (Eddington-Barbier)'." + S,
  "s7_josh.png":
    "A left-to-right flow of the JOSH moment radiative-transfer solver, five rounded boxes joined by arrows. "
-   "Box 1 'OPACITY per depth: absorption, scattering, source B'. Arrow to box 2 'OPTICAL DEPTH: integrate over column mass'. "
+   "Box 1 'PER DEPTH: opacity (absorption + scattering) and the Planck source B_nu' (B_nu is the SOURCE function, listed "
+   "alongside the opacity, NOT as an opacity). Arrow to box 2 'OPTICAL DEPTH: integrate over column mass'. "
    "Arrow to box 3 'MAP onto fixed grid: 51 Eddington depth points'. Arrow to box 4 'LAMBDA-ITERATION: S = (1-a) B + a J, "
    "scattering fraction a' with a small curved loop-back arrow above it labeled 'repeat until converged' (this box 4 is the "
    "single amber element, the heart of the method). Arrow to box 5 'SURFACE FLUX: weighted sum over depth'. "
